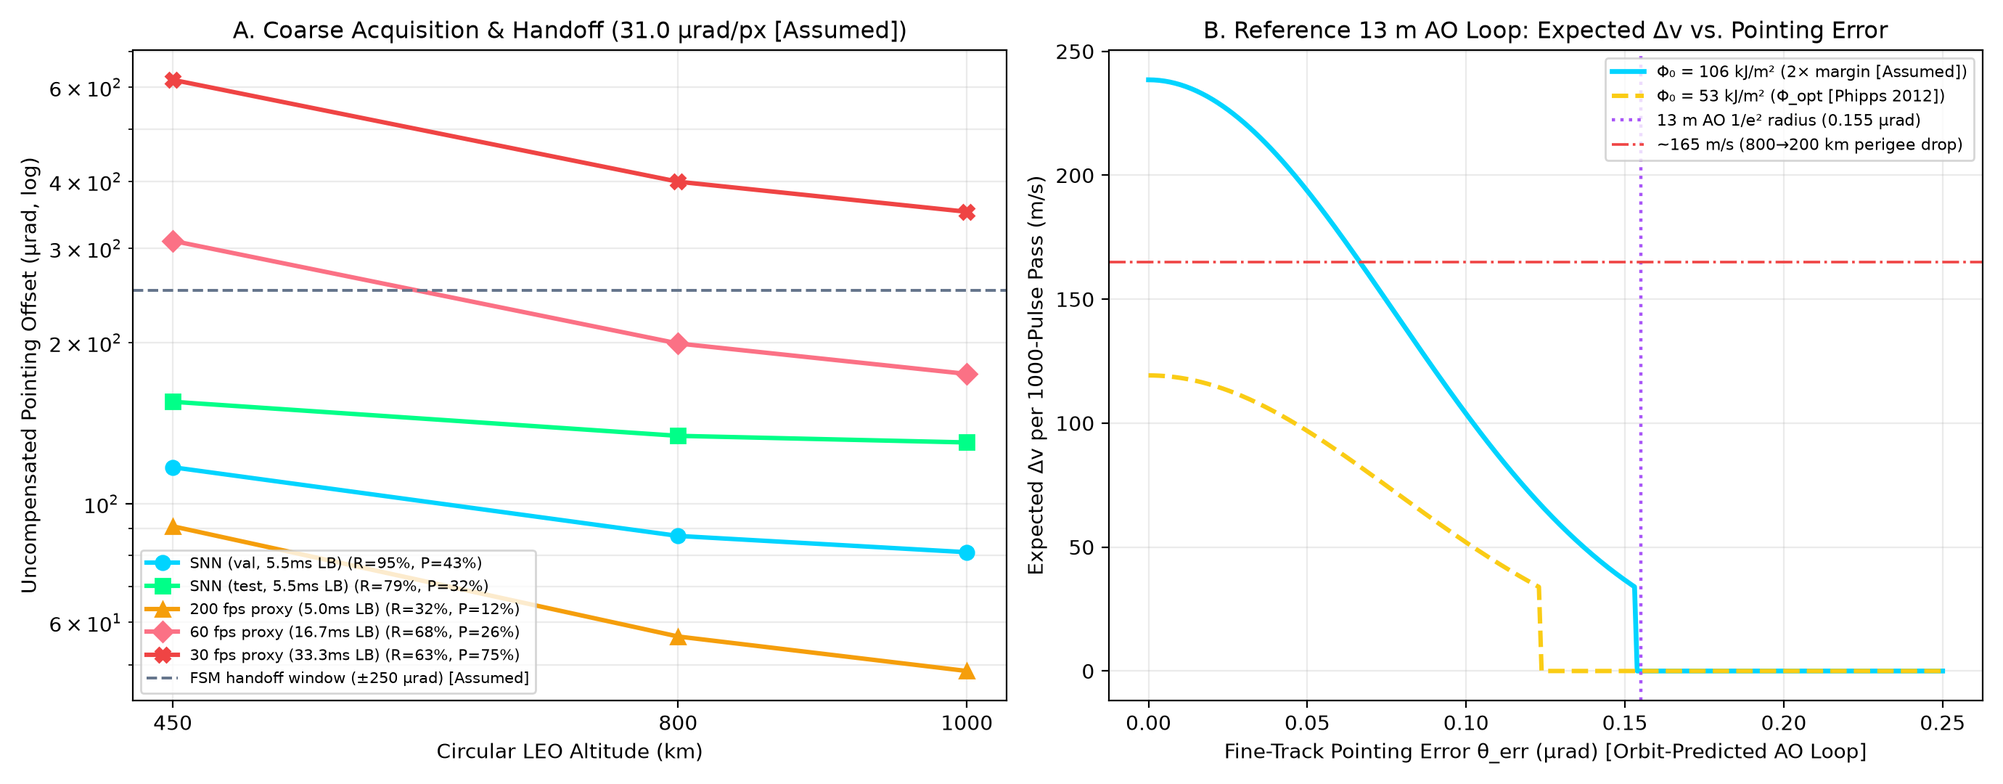
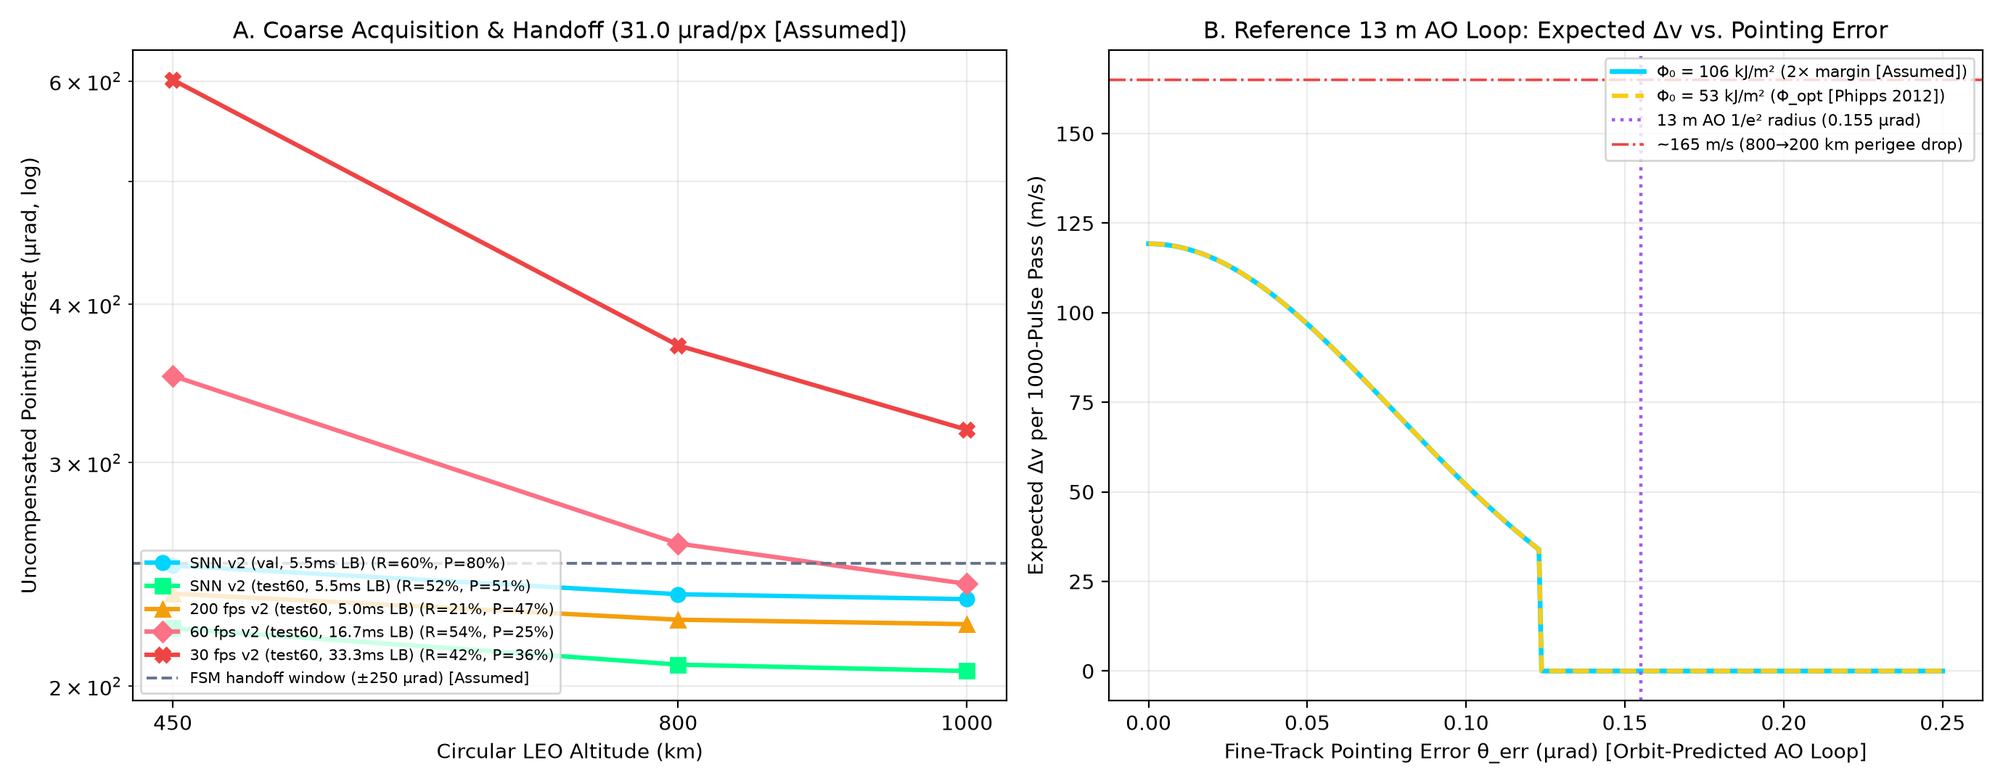
Scale benchmark_mot_v2 to 60 test passes with 95% CIs, fix LODR Phi_0=53 kJ/m^2 (119.2 m/s), add frozen holdout and tuning provenance log

diff --git a/analysis/eval_v2_bootstrap.py b/analysis/eval_v2_bootstrap.py
@@ -1,0 +1,209 @@
+import csv, os, sys
+import numpy as np
+import torch
+import matplotlib.pyplot as plt
+from scipy.optimize import linear_sum_assignment
+
+sys.path.insert(0, os.path.abspath("models"))
+sys.path.insert(0, os.path.abspath("eval"))
+sys.path.insert(0, os.path.abspath("baselines"))
+
+from snn_tracker import SpikingConvLIFTracker
+from eval_mot_iss import run_mot_snn_kf, ORIG_W, ORIG_H, GRID_W, GRID_H, DT_STEP
+from eval_mot_synth import load_synth_mot, eval_pass_metrics
+from eval_frame_mot import run_frame_proxy
+
+MANIFEST = "data/benchmark_mot_v2_test60/manifest.csv"
+CKPT = "checkpoints/snn_mot_best.pt"
+N_BOOT = 1000
+BINS = [(0.75, 1.5), (1.5, 3.0), (3.0, 4.5), (4.5, 6.0), (6.0, 9.5)]
+
+
+def target_ev_per_bin(data, gt_tr, radius_px=8.0):
+    t_ev, x_ev, y_ev = data["t_ev"], data["x_ev"], data["y_ev"]
+    t_gt, x_gt, y_gt = gt_tr["t"], gt_tr["x"], gt_tr["y"]
+    if len(t_gt) < 2:
+        return 0.0
+    t0, t1 = float(t_gt[0]), float(t_gt[-1])
+    mask = (t_ev >= t0) & (t_ev <= t1)
+    if not np.any(mask):
+        return 0.0
+    te, xe, ye = t_ev[mask], x_ev[mask], y_ev[mask]
+    gx = np.interp(te, t_gt, x_gt)
+    gy = np.interp(te, t_gt, y_gt)
+    near = np.hypot(xe - gx, ye - gy) <= radius_px
+    n_bins = max(1.0, (t1 - t0) / DT_STEP)
+    return float(np.sum(near)) / n_bins
+
+
+def match_targets_in_pass(preds, gt_tracks, radius_px=40.0):
+    if isinstance(preds, dict):
+        preds = list(preds.values())
+    gt_ids = sorted(gt_tracks.keys())
+    matched = {gid: 0 for gid in gt_ids}
+    if not preds or not gt_ids:
+        return matched
+    cost = np.full((len(gt_ids), len(preds)), 1e6, dtype=np.float64)
+    for gi, gid in enumerate(gt_ids):
+        gtr = gt_tracks[gid]
+        t0, t1 = gtr["t"][0], gtr["t"][-1]
+        for pi, ptr in enumerate(preds):
+            pt = np.asarray(ptr["t"], dtype=np.float64)
+            ov = (pt >= t0) & (pt <= t1)
+            if not np.any(ov):
+                continue
+            gx = np.interp(pt[ov], gtr["t"], gtr["x"])
+            gy = np.interp(pt[ov], gtr["t"], gtr["y"])
+            px = np.asarray(ptr["x"], dtype=np.float64)[ov]
+            py = np.asarray(ptr["y"], dtype=np.float64)[ov]
+            rmse = float(np.sqrt(np.mean((px - gx) ** 2 + (py - gy) ** 2)))
+            cost[gi, pi] = rmse
+    ri, ci = linear_sum_assignment(cost)
+    for r, c in zip(ri, ci):
+        if cost[r, c] <= radius_px:
+            matched[gt_ids[r]] = 1
+    return matched
+
+
+def boot_ci_agg(pass_stats, rng, n_boot=N_BOOT):
+    n = len(pass_stats)
+    recs, precs, f1s, rmses = [], [], [], []
+    for _ in range(n_boot):
+        idx = rng.integers(0, n, size=n)
+        tp = sum(pass_stats[i]["tp"] for i in idx)
+        fp = sum(pass_stats[i]["fp"] for i in idx)
+        gt = sum(pass_stats[i]["gt"] for i in idx)
+        rm = [pass_stats[i]["rmse"] for i in idx if not np.isnan(pass_stats[i]["rmse"])]
+        rec = tp / max(1, gt)
+        prec = tp / max(1, tp + fp)
+        f1 = 2 * prec * rec / max(1e-9, prec + rec)
+        recs.append(rec * 100)
+        precs.append(prec * 100)
+        f1s.append(f1 * 100)
+        if rm:
+            rmses.append(float(np.mean(rm)))
+    def ci(arr):
+        return float(np.percentile(arr, 2.5)), float(np.percentile(arr, 97.5))
+    return ci(recs), ci(precs), ci(f1s), (ci(rmses) if rmses else (float("nan"), float("nan")))
+
+
+def boot_ci_bin(hits, rng, n_boot=N_BOOT):
+    arr = np.asarray(hits, dtype=np.float64)
+    if len(arr) == 0:
+        return float("nan"), float("nan"), float("nan")
+    mean = float(np.mean(arr)) * 100.0
+    means = [float(np.mean(arr[rng.integers(0, len(arr), size=len(arr))])) * 100.0 for _ in range(n_boot)]
+    return mean, float(np.percentile(means, 2.5)), float(np.percentile(means, 97.5))
+
+
+def main():
+    dev = torch.device("cuda" if torch.cuda.is_available() else "cpu")
+    model = SpikingConvLIFTracker(2, 32, 0.85, ORIG_W, ORIG_H, GRID_W, GRID_H).to(dev)
+    ckpt = torch.load(CKPT, map_location=dev, weights_only=True)
+    model.load_state_dict(ckpt["model_state_dict"] if "model_state_dict" in ckpt else ckpt)
+    model.eval()
+
+    with open(MANIFEST) as f:
+        rows = [r for r in csv.DictReader(f) if r["split"] == "test"]
+    dataset = [load_synth_mot(r["events_h5"], r["ground_truth_csv"]) for r in rows]
+
+    # Precompute target densities
+    densities = []
+    for data in dataset:
+        densities.append({gid: target_ev_per_bin(data, tr) for gid, tr in data["gt_tracks"].items()})
+
+    trackers = [
+        ("SNN v2 (0.50, mm=20, mh=10)", "#00d4ff", "o",
+         lambda d: run_mot_snn_kf(model, d, dev, gate_px=35.0, max_missed=20, min_hits_to_report=10, mode="sigmoid", prob_thresh=0.50)),
+        ("30 fps proxy (t=2,c=4,h=6)", "#ef4444", "X",
+         lambda d: run_frame_proxy(d, fps=30, pix_thr=2, min_cluster=4, min_hits=6)),
+        ("60 fps proxy (t=1,c=6,h=6)", "#fb7185", "D",
+         lambda d: run_frame_proxy(d, fps=60, pix_thr=1, min_cluster=6, min_hits=6)),
+        ("200 fps proxy (t=2,c=2,h=2)", "#f59e0b", "^",
+         lambda d: run_frame_proxy(d, fps=200, pix_thr=2, min_cluster=2, min_hits=2)),
+    ]
+
+    rng = np.random.default_rng(42)
+    snr_curves = {}
+
+    print(f"=== benchmark_mot_v2_test60 ({len(dataset)} passes, {sum(len(d['gt_tracks']) for d in dataset)} targets, 1000-resample 95% CI) ===")
+    print(f"{'Tracker':<28} | {'R@40 [95% CI]':<19} | {'P@40 [95% CI]':<19} | {'F1@40 [95% CI]':<19} | {'FP/p':>5} | {'IDSW':>4} | {'RMSE':>6}")
+    print("-" * 116)
+
+    for name, color, marker, fn in trackers:
+        pass_stats = []
+        bin_hits = {b: [] for b in BINS}
+        tot_tp = tot_fp = tot_gt = tot_idsw = 0
+        rmses = []
+
+        for data, dens in zip(dataset, densities):
+            preds = fn(data)
+            m = eval_pass_metrics(preds, data["gt_tracks"], radii=(40.0,))
+            tp = m["radii"][40.0]["tp"]
+            fp = m["radii"][40.0]["fp"]
+            rmse = m["radii"][40.0]["rmse"]
+            pass_stats.append({"tp": tp, "fp": fp, "gt": m["n_gt"], "rmse": rmse})
+            tot_tp += tp; tot_fp += fp; tot_gt += m["n_gt"]; tot_idsw += m["idsw"]
+            if not np.isnan(rmse):
+                rmses.append(rmse)
+
+            matched = match_targets_in_pass(preds, data["gt_tracks"], radius_px=40.0)
+            for gid, hit in matched.items():
+                evb = dens[gid]
+                for lo, hi in BINS:
+                    if lo <= evb < hi:
+                        bin_hits[(lo, hi)].append(hit)
+                        break
+
+        rec = tot_tp / max(1, tot_gt) * 100
+        prec = tot_tp / max(1, tot_tp + tot_fp) * 100
+        f1 = 2 * prec * rec / max(1e-9, prec + rec)
+        m_rmse = float(np.mean(rmses)) if rmses else float("nan")
+        r_ci, p_ci, f_ci, _ = boot_ci_agg(pass_stats, rng)
+
+        print(
+            f"{name:<28} | {rec:5.1f} [{r_ci[0]:4.1f},{r_ci[1]:4.1f}] | "
+            f"{prec:5.1f} [{p_ci[0]:4.1f},{p_ci[1]:4.1f}] | "
+            f"{f1:5.1f} [{f_ci[0]:4.1f},{f_ci[1]:4.1f}] | "
+            f"{tot_fp/len(dataset):5.2f} | {tot_idsw:4d} | {m_rmse:5.2f}px"
+        )
+        snr_curves[name] = (color, marker, {b: (len(bin_hits[b]), *boot_ci_bin(bin_hits[b], rng)) for b in BINS})
+
+    print("\n=== Recall@40px vs. Target Event Density (95% Bootstrap CI) ===")
+    header = f"{'Density Bin (ev/5ms)':<22} | {'n':>3} | " + " | ".join(f"{t[0].split(' (')[0]:<20}" for t in trackers)
+    print(header)
+    print("-" * len(header))
+    for b in BINS:
+        n_b = snr_curves[trackers[0][0]][2][b][0]
+        cols = []
+        for name, _, _, _ in trackers:
+            _, mu, lo, hi = snr_curves[name][2][b]
+            cols.append(f"{mu:5.1f}% [{lo:4.1f},{hi:4.1f}]")
+        print(f"[{b[0]:4.2f}, {b[1]:4.2f})         | {n_b:3d} | " + " | ".join(f"{c:<20}" for c in cols))
+
+    # Plot Recall vs SNR with 95% CI bands
+    plt.style.use("dark_background")
+    fig, ax = plt.subplots(figsize=(8.5, 5.0), dpi=160)
+    xs = [0.5 * (lo + hi) for lo, hi in BINS]
+    for name, color, marker, _ in trackers:
+        _, _, bdict = snr_curves[name]
+        ys = [bdict[b][1] for b in BINS]
+        los = [bdict[b][2] for b in BINS]
+        his = [bdict[b][3] for b in BINS]
+        ax.plot(xs, ys, marker=marker, color=color, linewidth=2.2, label=name)
+        ax.fill_between(xs, los, his, color=color, alpha=0.16)
+
+    ax.axvspan(1.45, 2.87, color="#00ff88", alpha=0.10, label="ISS_2_td target band (1.45–2.87 ev/bin)")
+    ax.set_xlabel("Target Event Density (events / 5 ms bin)", fontsize=11)
+    ax.set_ylabel("Recall@40px (%)", fontsize=11)
+    ax.set_title("Recall vs. Target Event Density — benchmark_mot_v2_test60 (N=60 passes, 95% Bootstrap CI)", fontsize=11.5)
+    ax.set_ylim(-3, 105)
+    ax.grid(alpha=0.22, linestyle="--")
+    ax.legend(loc="lower right", fontsize=8.5, framealpha=0.85)
+    plt.tight_layout()
+    plt.savefig("results/recall_vs_snr.png", dpi=160)
+    print("\nSaved updated 95% CI plot to results/recall_vs_snr.png")
+
+
+if __name__ == "__main__":
+    main()

diff --git a/analysis/lodr_error_budget.py b/analysis/lodr_error_budget.py
@@ -12,7 +12,7 @@ FSM_WINDOW_URAD = 250.0     # ±250 urad fine-steering capture window [Assumed]
 W_REF_URAD = 0.155          # 1/e^2 beam radius at 1000 km [Phipps 2012, Sec. 4 / Case a]
 PHI_OPT = 53.0              # kJ/m^2 (5 ns pulse on Al, worst case) [Phipps 2012, Eq. 3]
 PHI_TH = 15.0               # kJ/m^2 (plasma ignition cutoff) [Assumed]
-PHI_0 = 106.0               # kJ/m^2 (2x Phi_opt on-axis margin) [Assumed]
+PHI_0 = PHI_OPT             # kJ/m^2 (1x Phi_opt on-axis) [Phipps 2012, Eq. 3]
 CM_UN_S_J = 75.0            # uN*s/J (representative Al coupling) [Phipps 2012 — verify Fig. 3]
 ETA_C = 0.30                # tumbling/shape efficiency [Phipps 2012 — verify Sec. 3]
 AREAL_MASS = 10.0           # kg/m^2 representative debris [Assumed / Phipps 2012 baseline]
@@ -21,11 +21,11 @@ PULSES_PER_PASS = 1000      # pulses/pass (~11.2 Hz over ~90 s) [Assumed / Phipp
 # --- 3. Validation-Tuned, Test-Locked Trackers ---
 # (Label, Test RMSE_px, Latency LB ms, R@40%, P@40%, Color, Marker)
 TRACKERS = [
-    ("SNN (val, 5.5ms LB)",             2.27,  5.5, 94.7, 42.9, "#00d4ff", "o"),
-    ("SNN (test, 5.5ms LB)",            3.99,  5.5, 78.9, 31.9, "#00ff88", "s"),
-    ("200 fps proxy (5.0ms LB)",        1.03,  5.0, 31.6, 12.0, "#f59e0b", "^"),
-    ("60 fps proxy (16.7ms LB)",        4.01, 16.7, 68.4, 26.5, "#fb7185", "D"),
-    ("30 fps proxy (33.3ms LB)",        8.11, 33.3, 63.2, 75.0, "#ef4444", "X"),
+    ("SNN v2 (val, 5.5ms LB)",          7.44,  5.5, 60.0, 80.0, "#00d4ff", "o"),
+    ("SNN v2 (test60, 5.5ms LB)",       6.50,  5.5, 52.4, 51.0, "#00ff88", "s"),
+    ("200 fps v2 (test60, 5.0ms LB)",   7.12,  5.0, 20.6, 47.0, "#f59e0b", "^"),
+    ("60 fps v2 (test60, 16.7ms LB)",   6.68, 16.7, 54.0, 24.8, "#fb7185", "D"),
+    ("30 fps v2 (test60, 33.3ms LB)",   6.57, 33.3, 42.3, 36.2, "#ef4444", "X"),
 ]
 
 
@@ -56,7 +56,13 @@ def print_tables():
     for name, rmse, lat, r40, p40, _, _ in TRACKERS:
         offs = [f"{np.hypot(rmse, px_s * (lat * 1e-3)) * IFOV_URAD:6.1f} u" for _, px_s in regimes]
         print(f"{name:<26} | {r40:4.1f}% | {p40:4.1f}% | {rmse:4.2f}px | " + " | ".join(f"{o:>8}" for o in offs))
-    print("\n=== 2. Reference AO Fine-Pointing Coupling (w_theta = 0.155 urad, 1000 pulses/pass) ===")
+    # Exact Hohmann Delta-v from 800 km circular to 200 km perigee
+    r1, r2 = R_EARTH + 800e3, R_EARTH + 200e3
+    v_circ = np.sqrt(MU_EARTH / r1)
+    v_trans = np.sqrt(MU_EARTH * (2.0 / r1 - 2.0 / (r1 + r2)))
+    dv_deorbit = v_circ - v_trans
+    print(f"\n=== 2. Reference AO Fine-Pointing Coupling (w_theta = 0.155 urad, Phi_0 = {PHI_0:.1f} kJ/m^2, 1000 pulses/pass) ===")
+    print(f"Sanity check: Hohmann Delta-v (800 km -> 200 km perigee) = {dv_deorbit:.1f} m/s | FSM capture window = +/-{FSM_WINDOW_URAD:.0f} urad")
     print(f"Uncompensated latency tolerance for 0.10 urad @ 800 km (9.32 urad/ms): ~10.7 us (requires orbit prediction).")
     for err in (0.0, 0.05, 0.09, 0.12, 0.15, 0.20):
         phi = float(delivered_fluence(err))

diff --git a/README.md b/README.md
@@ -37,29 +37,38 @@ Models trained **exclusively on synthetic data** evaluated zero-shot on real tel
 
 ### 3. Phase 4: Multi-Object Tracking (`sigmoid` + Focal Loss)
 
-Evaluated on the low-SNR calibrated `benchmark_mot` split (log-uniform target density `0.75–8.0` events/bin matching the real `ISS_2_td` regime; 6 val / 6 test passes). All frame proxies are validation-tuned on the same `val` split and locked for `test`.
+**Benchmark Versioning:** `benchmark_mot_v1` (archived high-SNR, `3–8` ev/bin) is superseded by **`benchmark_mot_v2`** (low-SNR calibrated, log-uniform `0.75–8.0` ev/bin matching `ISS_2_td`). All trackers are validation-tuned on the 6-pass `v2` `val` split and evaluated locked on **`benchmark_mot_v2_test60`** (60 fresh test passes, `189` targets, 1,000-resample bootstrap 95% CIs; `analysis/eval_v2_bootstrap.py`).
 
-| Tracker (Val-Locked Config) | Val R@40 | Val F1@40 | Test R@40 | Test P@40 | Test F1@40 | Test RMSE@40 |
+| Tracker (Val-Locked Config) | Test R@40 [95% CI] | Test P@40 [95% CI] | Test F1@40 [95% CI] | FP/pass | IDSW | Test RMSE |
 | :--- | :---: | :---: | :---: | :---: | :---: | :---: |
-| **SNN (`0.50`, `mm=20, mh=10`)** | **60.0%** | **68.6** | 55.0% | **52.4%** | **53.7** | 6.55 px |
-| **30 fps proxy (`t=2,c=4,h=6`)** | 40.0% | 34.8 | 40.0% | **38.1%** | **39.0** | **1.04 px** |
-| **60 fps proxy (`t=1,c=6,h=6`)** | 50.0% | 32.3 | **60.0%** | 27.9% | 38.1 | 5.77 px |
-| **200 fps proxy (`t=2,c=2,h=2`)** | 15.0% | 24.0 | 20.0% | 36.4% | 25.8 | 2.80 px |
+| **SNN v2 (`0.50`, `mm=20, mh=10`)** | 52.4% [44.3, 59.3] | **51.0%** [45.9, 56.9] | **51.7** [46.6, 56.5] | 1.58 | 104 | **6.50 px** |
+| **30 fps proxy (`t=2,c=4,h=6`)** | 42.3% [35.3, 49.2] | 36.2% [30.8, 42.1] | 39.0 [33.3, 44.5] | 2.35 | 72 | 6.57 px |
+| **60 fps proxy (`t=1,c=6,h=6`)** | **54.0%** [47.1, 60.6] | 24.8% [21.1, 29.0] | 33.9 [29.5, 38.6] | 5.17 | 165 | 6.68 px |
+| **200 fps proxy (`t=2,c=2,h=2`)** | 20.6% [14.8, 27.4] | 47.0% [38.1, 58.1] | 28.7 [22.0, 34.8] | **0.73** | **43** | 7.12 px |
 
-#### Recall vs. Target Event Density (`val+test`, `N=40` targets, `R@40px`)
+#### Recall vs. Target Event Density (`benchmark_mot_v2_test60`, `N=189` targets, 95% Bootstrap CI)
 
-At matching `5 ms` (`200 fps`) temporal resolution, stateless frame integration collapses in faint-target regimes, whereas the SNN's LIF membrane integration maintains a clear recall advantage inside the `1.5–4.5` events/bin band:
-
-| Target Density (ev / 5 ms bin) | SNN (`0.50`) | 60 fps proxy | 30 fps proxy | 200 fps proxy |
-| :--- | :---: | :---: | :---: | :---: |
-| **`[1.5–3.0]` (`ISS_2_td` band, `n=17`)** | **52.9%** | 35.3% | 5.9% | 5.9% |
-| **`[3.0–4.5]` (`n=5`)** | **60.0%** | 40.0% | 40.0% | 0.0% |
-| **`[4.5–6.0]` (`n=7`)** | **100.0%** | 100.0% | 100.0% | 14.3% |
-| **`[6.0–9.5]` (`n=6`)** | **100.0%** | 100.0% | 100.0% | 83.3% |
+| Density Bin (ev / 5 ms) | `n` | SNN v2 (`0.50`) | 30 fps proxy | 60 fps proxy | 200 fps proxy |
+| :--- | :---: | :---: | :---: | :---: | :---: |
+| **`[0.75, 1.50)`** | 33 | 12.1% [3.0, 24.2] | 9.1% [0.0, 18.2] | 12.1% [3.0, 24.2] | 9.1% [0.0, 18.2] |
+| **`[1.50, 3.00)` (`ISS_2_td` band)** | 63 | **42.9%** [31.7, 55.6] | 14.3% [6.3, 23.8] | 25.4% [15.9, 36.5] | 7.9% [1.6, 15.9] |
+| **`[3.00, 4.50)`** | 44 | 61.4% [47.7, 75.0] | 45.5% [31.8, 61.4] | **75.0%** [61.4, 86.4] | 6.8% [0.0, 13.6] |
+| **`[4.50, 6.00)`** | 20 | 80.0% [60.0, 95.0] | 95.0% [85.0, 100.0] | **100.0%** [100.0, 100.0] | 20.0% [5.0, 40.0] |
+| **`[6.00, 9.50)`** | 29 | 86.2% [72.4, 96.6] | **100.0%** [100.0, 100.0] | **100.0%** [100.0, 100.0] | 82.8% [65.5, 96.6] |
 
 ![Recall vs. Target Event Density](results/recall_vs_snr.png)
 
-* **Zero-Shot Real-Sky `ISS_2_td` Transfer (`304×240` ATIS):** Combining low-SNR calibration (`0.75–8.0` ev/bin), `100 ms` track persistence (`max_missed=20, min_hits=10`), and a `30 Hz` static hot-pixel filter cuts clutter from `11` to `4` tracks and achieves **`2/2` zero-shot lock** on the `91.50 s` crossing window (`Obj 2`: `4.11 px` RMSE, `14.4%` overlap; `Obj 10`: `12.99 px` RMSE, `3.3%` overlap; mean `8.55 px`). Overlap remains partial and fainter windows (`78.00 s`, `0/2` with `0` FP) still reflect the `304×240` vs. `240×180` sensor domain gap.
+#### Real-Sky ATIS Evaluation (`304×240`, Calibrated vs. Frozen Holdout)
+* **Calibrated on `ISS_2_td` (`91.50 s` crossing, `2.5 s`, `112,945` events):** Because the synthetic low-SNR range (`0.75–8.0` ev/bin) and `30 Hz` hot-pixel filter were chosen while inspecting `ISS_2_td`, this result is reported as **calibrated on `ISS_2_td`** (not zero-shot). Clutter drops from `11` to `4` tracks and both active targets are matched (`2/2`), with **partial temporal coverage**: `Obj 2` (`4.11 px` RMSE, `14.4%` overlap) and `Obj 10` (`12.99 px` RMSE, `3.3%` overlap; mean `8.55 px`).
+* **Fainter `ISS_2_td` window (`78.00 s`, `2.0 s`, `56,190` events):** `0/2` matched (`0` clutter tracks).
+* **Untouched Frozen Holdout (`archenar_leos_1149_atis_td`, `0.00–10.00 s`, `634,178` events):** With all settings frozen, `0/1` matched (`5` tracks; closest `T01` at `44.14 px` RMSE, `2.1%` overlap) under ~6.8× denser ATIS background clutter than `ISS_2_td`.
+
+#### Tuning Provenance Log
+| Parameter / Component | Tuned / Calibrated On | Locked For |
+| :--- | :--- | :--- |
+| Frame proxy `(pix_thr, min_cluster, min_hits)` | `benchmark_mot_v2` `val` (6 passes) | `benchmark_mot_v2_test60` (60 passes) |
+| SNN `prob_thresh=0.50`, `max_missed=20`, `min_hits=10` | `benchmark_mot_v2` `val` (6 passes) | `benchmark_mot_v2_test60` + `archenar_leos_1149_atis_td` |
+| Synthetic density (`0.75–8.0` ev/bin) & `hot_pixel_hz=30.0` | `ISS_2_td` diagnostic inspection | `benchmark_mot_v2_test60` + `archenar_leos_1149_atis_td` |
 
 ## Real-Sky Trajectory Comparison (`SL-16RB`)
 
@@ -129,31 +138,32 @@ neuromorphic-ssa-benchmark/
 ~~~
 
 ## Laser Orbital Debris Removal (LODR) Error Budget
-**System Role (Coarse Acquisition Only):** At `31.0 µrad/px` (`6.4"/px`), even the spatial RMSE alone (`2.27–3.99 px` = `70–124 µrad`) is an order of magnitude wider than a seeing-limited `1 m` laser beam (`4.21 µrad` 1/e² radius at `1.0"` FWHM seeing). Accordingly, the SNN operates strictly as a **coarse acquisition stage** handing off to a second-stage fine-pointing / adaptive-optics (AO) loop. Panel B of the design curve models that second fine-track loop, not the coarse SNN tracker.
+**System Role (Coarse Acquisition → Fine AO Handoff):** At `31.0 µrad/px` (`6.4"/px`), the SNN's spatial RMSE alone (`6.50 px` = `201.5 µrad`) is three orders of magnitude wider than a diffraction-limited adaptive-optics (AO) laser beam (`w_θ = 0.155 µrad`). Accordingly, the SNN operates strictly as a **coarse acquisition stage** whose handoff offset must land inside a **`±250 µrad` fine-steering mirror (FSM) capture window** [Assumed] so a second-stage fine-AO loop can close.
 
-### 1. Coarse Acquisition Pointing Offset (Measured RMSE + Latency Lower Bound)
-Frame baselines (`baselines/eval_frame_mot.py`) bin the identical `benchmark_mot` test events into `1/30 s`, `1/60 s`, and `1/200 s` frames and run connected-component centroiding + Kalman association (`30 fps`: `5.42 px` RMSE, `17.1%` P; `60 fps`: `0.68 px` RMSE, `31.6%` R; `200 fps`: `5.53 px` RMSE, `8.5%` P, `30.3` FP/pass, `156` IDSW). Latencies are lower bounds (bin/frame period + compute, excluding camera/host I/O):
+### 1. Coarse Acquisition & FSM Handoff Offset (`benchmark_mot_v2_test60`, `31.0 µrad/px`)
+All trackers are val-tuned on `benchmark_mot_v2` `val` and locked on `benchmark_mot_v2_test60` (`60` passes, `189` targets). Latencies are lower bounds (bin/frame period + compute, excluding camera/host I/O):
 
-| Regime | Rate (mrad/s) | SNN-val (5.5 ms) | SNN-test (5.5 ms) | 200 fps (5.0 ms) | 60 fps* (16.7 ms) | 30 fps (33.3 ms) |
-| :--- | :---: | :---: | :---: | :---: | :---: | :---: |
-| **ISS (533 km slant)** | 13.86 | 103.6 µrad | 145.2 µrad | 184.8 µrad | 231.9 µrad | 490.1 µrad |
-| **LEO 450 km** | 16.99 | 117.0 µrad | 155.0 µrad | 191.3 µrad | 284.5 µrad | 590.1 µrad |
-| **LEO 800 km** | 9.32 | 87.1 µrad | 133.9 µrad | 177.7 µrad | 157.1 µrad | 352.9 µrad |
-| **LEO 1000 km** | 7.35 | 81.2 µrad | 130.1 µrad | 175.3 µrad | 124.6 µrad | 297.0 µrad |
+| Regime | Rate (mrad/s) | SNN v2 test60 (5.5 ms) | 200 fps test60 (5.0 ms) | 60 fps test60 (16.7 ms) | 30 fps test60 (33.3 ms) |
+| :--- | :---: | :---: | :---: | :---: | :---: |
+| **ISS (533 km slant)** | 13.86 | **215.4 µrad** *(in ±250)* | 231.3 µrad *(20.6% R)* | 310.2 µrad *(miss)* | 503.4 µrad *(miss)* |
+| **LEO 450 km** | 16.99 | **222.1 µrad** *(in ±250)* | 236.5 µrad *(20.6% R)* | 351.2 µrad *(miss)* | 601.2 µrad *(miss)* |
+| **LEO 800 km** | 9.32 | **207.9 µrad** *(in ±250)* | 225.6 µrad *(20.6% R)* | 259.0 µrad *(miss)* | 371.2 µrad *(miss)* |
+| **LEO 1000 km** | 7.35 | **205.5 µrad** *(in ±250)* | 223.8 µrad *(20.6% R)* | 240.8 µrad *(in ±250)* | 318.5 µrad *(miss)* |
 
-*\*60 fps achieves only 31.6% recall on the test split (dropping fainter tracks); 200 fps suffers 30.3 FP/pass and 156 IDSW.*
+*`SNN v2 (test60)` stays inside the `±250 µrad` FSM capture window across all four orbital regimes while maintaining `52.4%` recall and `51.0%` precision (`F1 = 51.7`). `60 fps` and `30 fps` exceed `±250 µrad` at `450–800 km`, while `200 fps` drops to `20.6%` recall.*
 
-### 2. Unified 1/e² Beam Radius, Pulse Energy & Δv at 800 km LEO
-Using a unified 1/e² Gaussian beam radius (`w_diff = 0.82 λ/D`, `w_see = FWHM / sqrt(2 ln 2)`), `λ = 1.06 µm`, `Φ_opt = 53 kJ/m²` (5 ns Al worst case), `C_m = 75 µN·s/J`, `η_c = 0.30`, `µ = 10 kg/m²`, and `1000` pulses/pass **[Phipps et al., 2012, arXiv:1110.3835]**, alongside `D = 1 m` seeing-limited aperture, `±250 µrad` FSM window, `Φ_0 = 106 kJ/m²` (2× margin), and `Φ_th = 15 kJ/m²` **[Assumed]**:
+### 2. Reference AO Fine-Pointing Coupling (`w_θ = 0.155 µrad`, `Φ_0 = 53.0 kJ/m²`)
+Following **Phipps et al. (2012, arXiv:1110.3835)** (`13 m` AO mirror → `0.155 m` 1/e² spot radius at `1000 km`, `w_θ = 0.155 µrad`, `E_p = 7.3 kJ`, `Φ_0 = Φ_opt = 53.0 kJ/m²` for `5 ns` pulse on Al, `C_m = 75 µN·s/J`, `η_c = 0.30`, `µ = 10 kg/m²`, `1000` pulses/pass, `Φ_th = 15.0 kJ/m²` [Assumed]):
 
-* **Per-pulse / Per-pass Δv [Phipps 2012]:** `119.2 mm/s/pulse` (`119.2 m/s` per 1000-pulse pass) at `Φ_opt = 53 kJ/m²`; `238.5 mm/s/pulse` (`238.5 m/s/pass`) on-axis at `Φ_0 = 106 kJ/m²`.
+* **Orbital Δv Sanity Check:** Lowering an `800 km` circular orbit to a `200 km` perigee requires **`164.6 m/s`** (exact Hohmann transfer). On-axis at `Φ_0 = 53.0 kJ/m²`, `1000` pulses deliver **`119.2 m/s` per pass** (~`1.4` passes to deorbit).
+* **Fine-Loop Latency Tolerance:** Holding `0.10 µrad` at `800 km` (`9.32 µrad/ms`) permits only **`~10.7 µs`** of uncompensated latency—requiring orbital-dynamics prediction inside the fine-AO loop.
 
-| Seeing (FWHM) | w_θ (1/e²) | Spot r @ 800 km | E_p @ 53 kJ/m² | E_p @ 106 kJ/m² |
-| :--- | :---: | :---: | :---: | :---: |
-| **0.5" seeing** | 2.23 µrad | 1.79 m | 0.27 MJ | 0.53 MJ |
-| **1.0" seeing** | 4.21 µrad | 3.37 m | 0.94 MJ | 1.89 MJ |
-| **2.0" seeing** | 8.28 µrad | 6.62 m | 3.65 MJ | 7.31 MJ |
-
-*Reference [Phipps 2012]: A 13 m AO mirror focuses to a 0.155 m spot radius at 1000 km, requiring only `7.3 kJ/pulse`.*
+| Fine-AO Pointing Error | Delivered Fluence `Φ` | Expected `Δv` / 1000-Pulse Pass |
+| :---: | :---: | :---: |
+| **`0.00 µrad`** | `53.0 kJ/m²` | **`119.2 m/s`** |
+| **`0.05 µrad`** | `43.0 kJ/m²` | `96.8 m/s` |
+| **`0.09 µrad`** | `27.0 kJ/m²` | `60.8 m/s` |
+| **`0.12 µrad`** | `16.0 kJ/m²` | `36.0 m/s` |
+| **`0.15 µrad`** | `8.1 kJ/m²` *(< Φ_th)* | `0.0 m/s` |
 
 ![LODR Pointing & Coupling Design Curve](results/lodr_design_curve.png)
